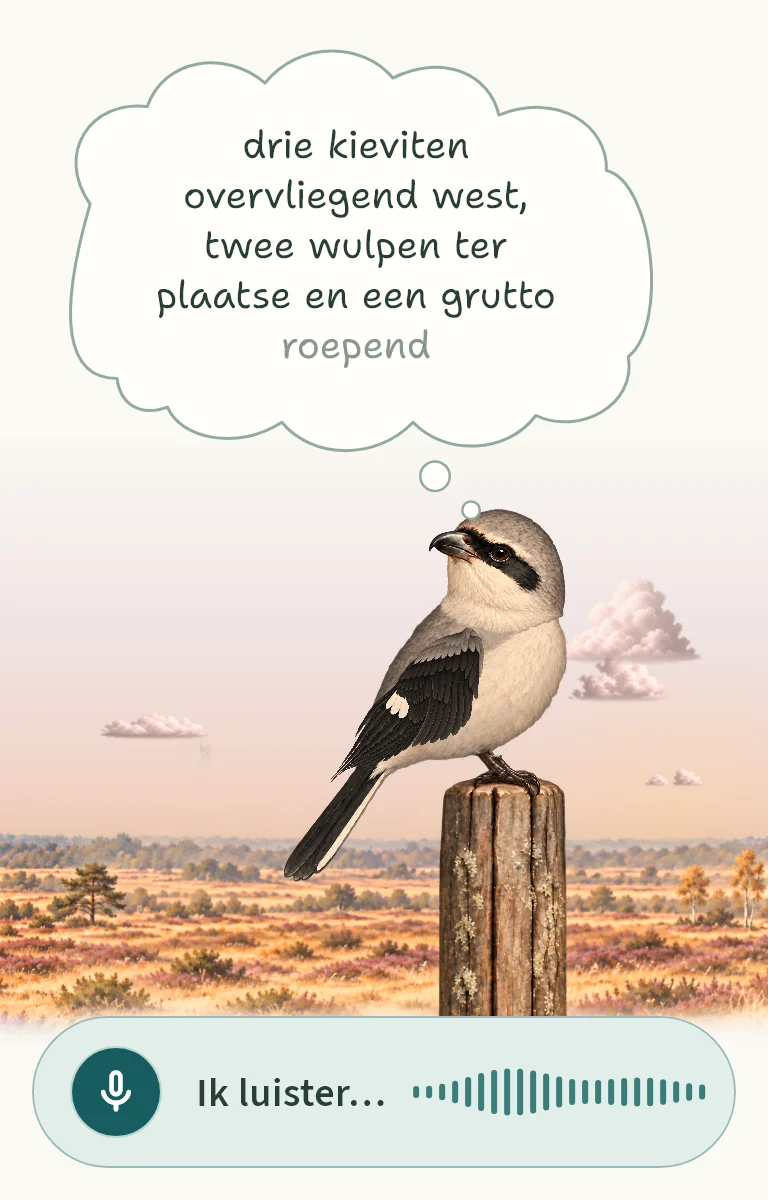
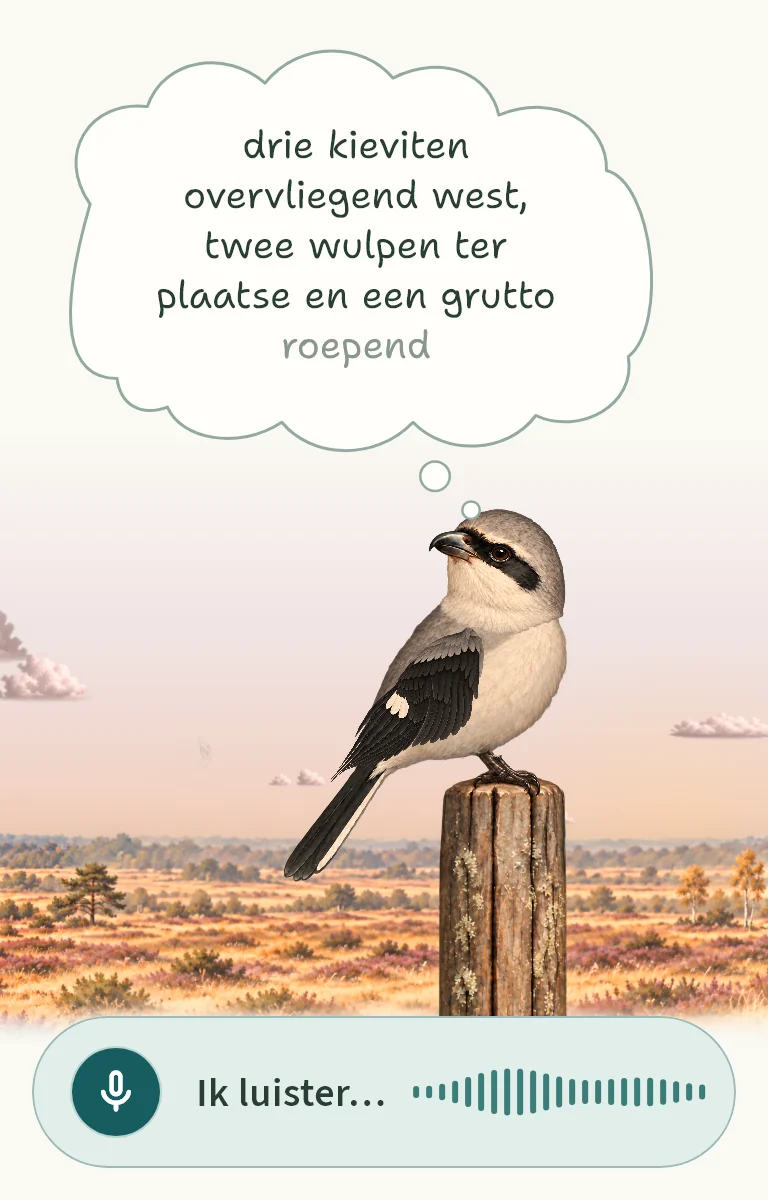
Zo werkt het met drie schermen van de app; fiches met de nieuwe soortbeelden (Noordse Kauw); opschriften "Alle details mag je zeggen" en "Dialectwoorden kent hij ook"

diff --git a/assets/stijl.css b/assets/stijl.css
@@ -174,7 +174,20 @@ h3 { font-size: 1.25rem; margin: 1.6em 0 0.4em; }
   place-items: center;
 }
 .stappen h3 { margin: 0 0 0.2em; }
-.stappen p { margin: 0; }
+.stappen p { margin: 0 0 16px; }
+/* Het scherm van de app onderaan elke stap, zodat de drie op een breed
+   scherm op één lijn staan. */
+.stappen li {
+  display: flex;
+  flex-direction: column;
+}
+.stappen .stapbeeld {
+  display: block;
+  width: 100%;
+  max-width: 240px;
+  height: auto;
+  margin: auto auto 0;
+}
 .zin-kort {
   font-family: var(--schreef);
   font-style: italic;

diff --git a/index.md b/index.md
@@ -55,16 +55,19 @@ in de najaarstrek. Zeg wat je ziet of hoort, en kijk verder.
     <h3>Spreek je waarneming in</h3>
     <p>Tik op de spreekknop en zeg wat je ziet of hoort. Bijvoorbeeld:
     <span class="zin-kort">“Drie koolmezen overvliegend noord.”</span></p>
+    <img class="scherm stapbeeld" src="{{ '/assets/beeld/stappen/stap-1.webp' | relative_url }}" alt="De klapekster luistert. In zijn wolk staat: drie koolmezen overvliegend noord" width="384" height="780" loading="lazy">
   </li>
   <li>
     <h3>Controleer en bewaar</h3>
     <p>KLAPekster zet je woorden om in een overzichtelijke waarneming. Kijk na
     of alles klopt, pas zo nodig iets aan en bewaar.</p>
+    <img class="scherm stapbeeld" src="{{ '/assets/beeld/stappen/stap-2.webp' | relative_url }}" alt="De fiche: drie koolmezen, overvliegend noord, met de knoppen Bewaar en Opnieuw" width="384" height="780" loading="lazy">
   </li>
   <li>
     <h3>Stuur je waarnemingen door</h3>
     <p>Na je wandeling stuur je de bewaarde waarnemingen samen naar
     waarnemingen.be of waarneming.nl, via je eigen account.</p>
+    <img class="scherm stapbeeld" src="{{ '/assets/beeld/stappen/stap-3.webp' | relative_url }}" alt="Het scherm Versturen met zes waarnemingen van die ochtend, klaar om te versturen" width="384" height="780" loading="lazy">
   </li>
 </ol>
 
